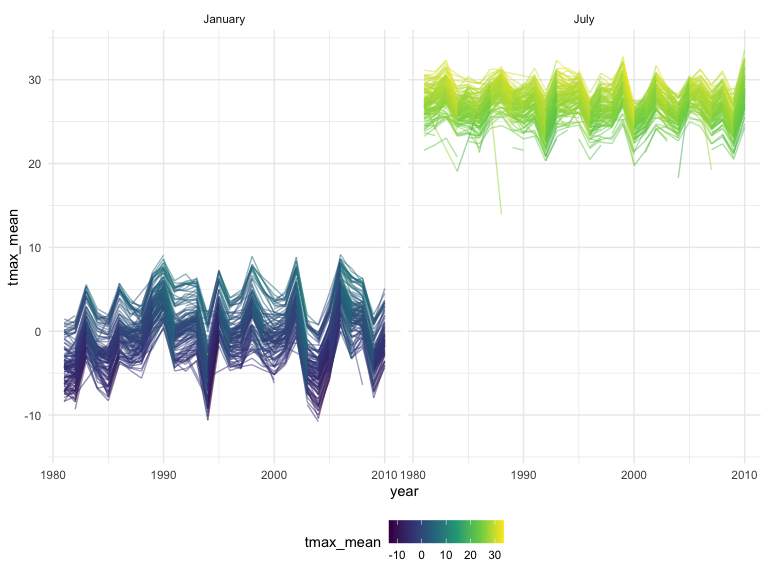
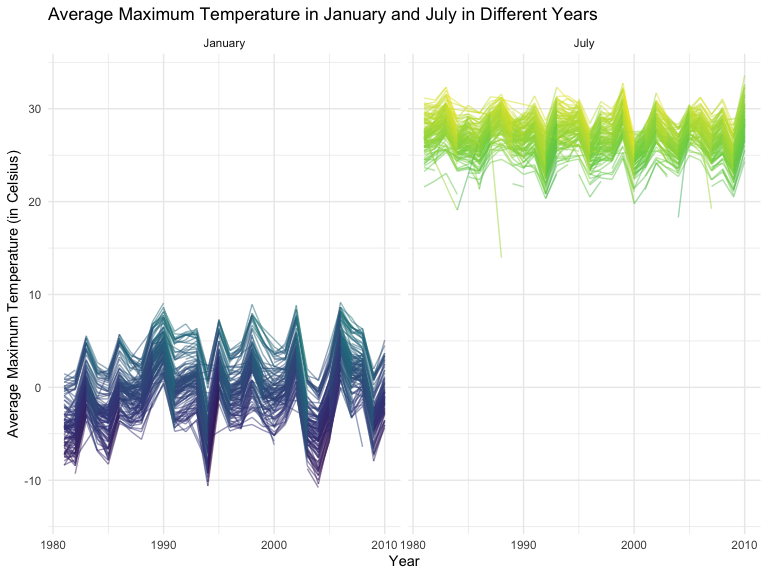
Answer the questions in probelm 3. Add themes and labels for the plots.

diff --git a/p8105_hw3_hj2596.md b/p8105_hw3_hj2596.md
@@ -235,7 +235,8 @@ summary(ny_noaa)
 The dataset contains the id, date, prcp, snow, snwd, tmax and tmin.
 There are seven variables(columns) and 2595176 rows(observations). prcp
 has 145838 NA values. snow has 381221 NA values. snwd has 591786 NA
-values.
+values. There are many NA values in the dataset and this may cause
+problems when we analyze the data.
 
 ``` r
 noaa_df = ny_noaa %>%
@@ -257,7 +258,9 @@ sort(table(noaa_df$snow),decreasing=TRUE)[1]
     ##       0 
     ## 2008508
 
-For snowfall, the most common observed value is 0.
+For snowfall, the most common observed value is 0. Becase the variable
+snow refers to snowfall(mm), and it is most common to see the days with
+no snowfall at all. That is how we see the most common value is 0.
 
 ``` r
 noaa_df %>%
@@ -267,17 +270,30 @@ noaa_df %>%
   summarize(tmax_mean = mean(tmax),na.rm=TRUE) %>%
   ggplot(aes(x=year,y=tmax_mean, groups=id, color = tmax_mean))+
   geom_line(alpha = 0.5)+
-  facet_grid(.~month)
+  facet_grid(.~month)+
+  theme(legend.position = "none") +
+  labs(
+  x = "Year",
+  y = "Average Maximum Temperature (in Celsius)",
+  title = "Average Maximum Temperature in January and July in Different Years")
 ```
 
     ## `summarise()` has grouped output by 'id', 'year'. You can override using the
     ## `.groups` argument.
 
 <img src="p8105_hw3_hj2596_files/figure-gfm/unnamed-chunk-13-1.png" width="90%" />
+We can observe that the average maximum temperature in January is much
+lower than the average maximum temperature in July, and this makes sense
+because this is the weather in New York and it is winter in January and
+summer in July. The temperatures in January mostly fall in the range
+between -10 and 10 C. And the temperatures in July mostly fall in the
+range between 20 and 35. Both the average max temperature in January and
+July over the years have some outliers with extreme high or low
+temperatures.
 
-Because here I am making a scatterplot with lots of data, there’s a
-limit to how much you can avoid overplotting using alpha levels. Using
-‘geom_hex()’ is a way to avoid that.
+Because in the chunk below I am making a scatterplot with lots of data,
+there’s a limit to how much you can avoid overplotting using alpha
+levels. Using ‘geom_hex’ is a way to avoid that.
 
 ``` r
 tmax_vs_tmin = 
@@ -285,20 +301,33 @@ tmax_vs_tmin =
   drop_na(tmin, tmax) %>%
   drop_na() %>%
   ggplot(aes(x = tmin, y = tmax)) + 
-  geom_hex()
-```
+  geom_hex() +
+  theme(legend.position = "none") +
+  labs(
+  x = "Minimum Temperature (Celsius)", 
+  y = "Maximum Temperature (Celsius)",
+  title = "Comparing Maximum with Minimum Temperature")
+  
 
-``` r
 density_plot = 
   noaa_df %>%
   drop_na(snow) %>%
   mutate(year=as.factor(year)) %>%
   filter(snow>0 & snow<100) %>% 
   ggplot(aes(x = snow,y = year))+
-  geom_density_ridges()
-density_plot 
+  geom_density_ridges()+
+  theme(legend.position = "none") +
+  labs(
+  x = "Snowfall(mm)",
+  y = "Year",
+  title = "Distribution of snowfall by year") 
+tmax_vs_tmin+density_plot 
 ```
 
     ## Picking joint bandwidth of 3.76
 
-<img src="p8105_hw3_hj2596_files/figure-gfm/unnamed-chunk-15-1.png" width="90%" />
+<img src="p8105_hw3_hj2596_files/figure-gfm/unnamed-chunk-14-1.png" width="90%" />
+From the two-panel plot, we can see that the max temperature and min
+temperature could be related. As the min temperature gets higher, the
+max temperature also gets higher. Also we see that the temperature
+counts mostly falls in the range between -30 to 30.
